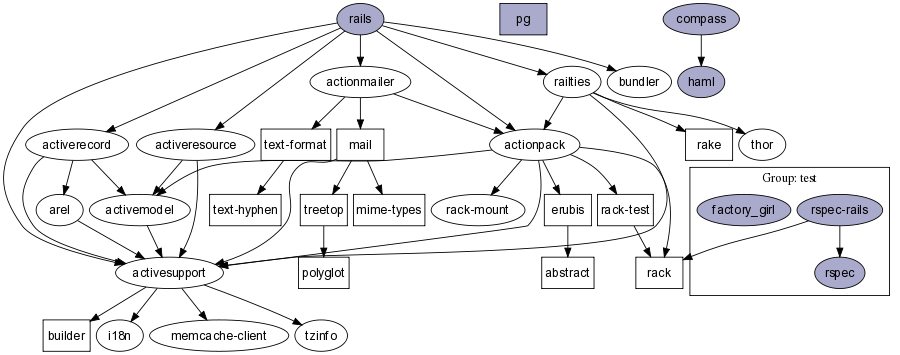
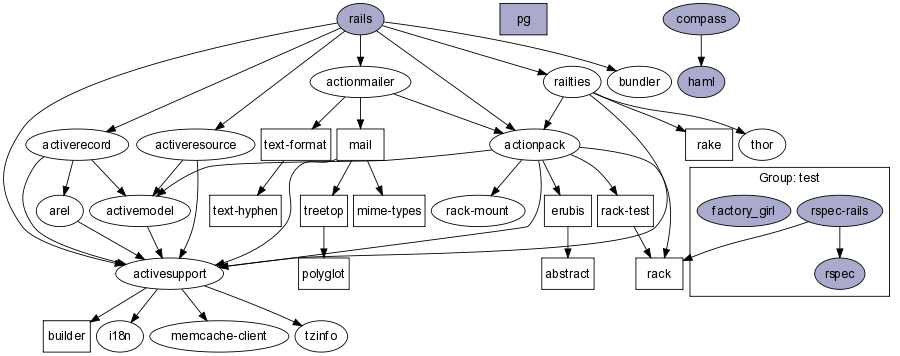
Fixed font on sample image, removed github-specific output params from tree.rb

diff --git a/tree.rb b/tree.rb
@@ -4,11 +4,8 @@ require "graphviz"
 
 #ENV['BUNDLE_GEMFILE'] = set to a Gemfile path if you don't run this in a directory with a Gemfile
 
-FONT_NAME = 'Arial'
-
 graph = GraphViz::new('Gemfile')
-graph.node[:fontname => FONT_NAME, :margin => '0.05, 0.05' ]
-graph.graph[ :dpi => 100, :size => '9,9', :nodesep => '.1', :bgcolor => 'transparent']
+graph.node[:fontname] = graph.graph[:fontname] = 'Helvetica'
 
 # clusters store sub-graphs that aren't default. 'test' is common, for instance.
 clusters = {}
